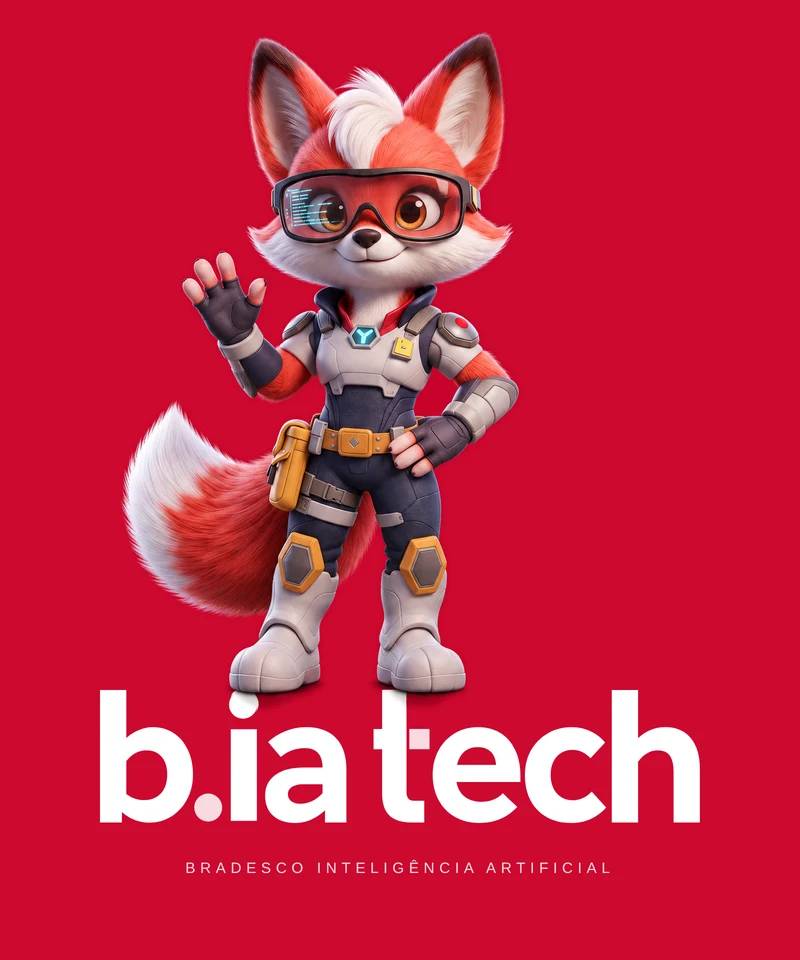
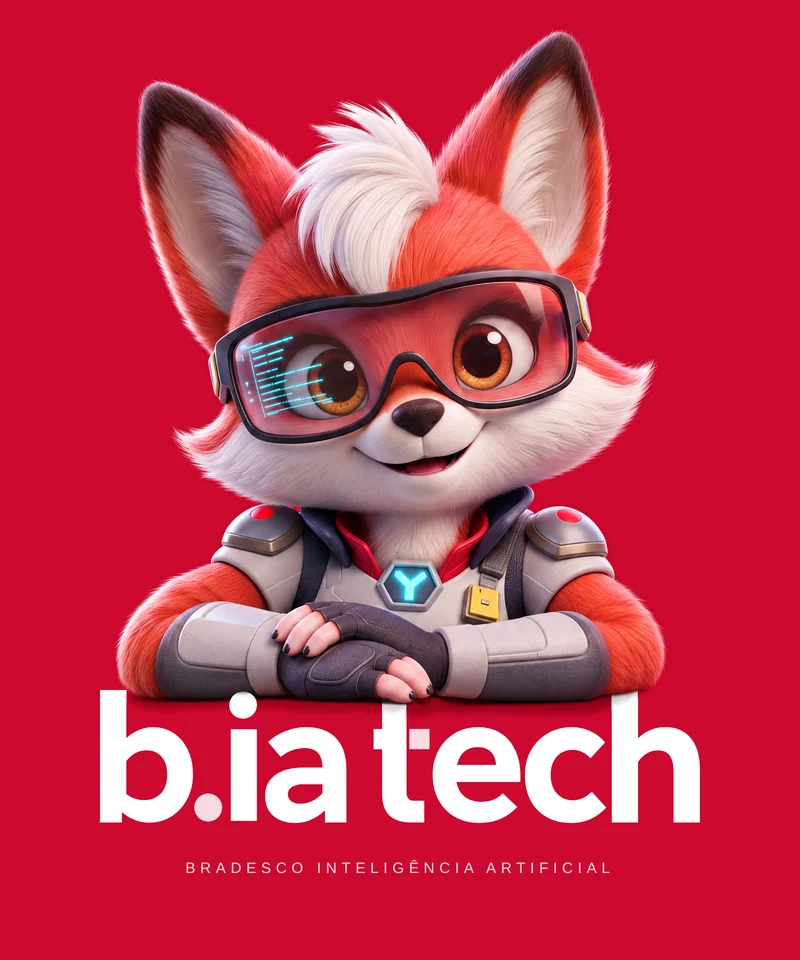
Lockup vertical: BIA debruçada no wordmark, gerada na cena
Claude-Session: https://claude.ai/code/session_01ADeYYMQxRk91v9C1RJmNJ3

diff --git a/brandbook-html/index.html b/brandbook-html/index.html
@@ -463,7 +463,7 @@ pre.code{margin:0;background:var(--ink);color:var(--t-d2);font:12.5px/1.7 var(--
 <section id="lockups" class="dark grid">
   <div class="wrap">
     <div class="sec-h"><span class="lab">09 — Lockups</span><h2>BIA Tech com o wordmark</h2>
-      <p class="lead">O lockup é a única forma aprovada de juntar a personagem e a marca numa assinatura. Cada lockup tem arte própria: no horizontal, a BIA fica à direita, virada para o wordmark, e o apresenta com a palma da mão; no vertical, ela foi gerada dentro do próprio lockup, de pé sobre o wordmark (uma bota no pingo do "i", outra no topo do "t"), acenando, com luz e sombra de contato da cena. Não monte combinações novas com outras poses.</p></div>
+      <p class="lead">O lockup é a única forma aprovada de juntar a personagem e a marca numa assinatura. Cada lockup tem arte própria: no horizontal, a BIA fica à direita, virada para o wordmark, e o apresenta com a palma da mão; no vertical, ela foi gerada dentro do próprio lockup, debruçada sobre o wordmark com os antebraços apoiados no topo das letras, sem nenhuma letra sobre ela, com luz e sombra de contato da cena. Não monte combinações novas com outras poses.</p></div>
     <div class="lk">
       <figure><img class="chk" src="img/p-lockup-horizontal-positivo.webp" alt="Lockup horizontal positivo" loading="lazy"><figcaption>Horizontal · positivo · PNG transparente</figcaption></figure>
       <figure><img src="img/p-lockup-horizontal-negativo.webp" alt="Lockup horizontal negativo" loading="lazy"><figcaption>Horizontal · negativo · fundo #0A0A0A</figcaption></figure>
